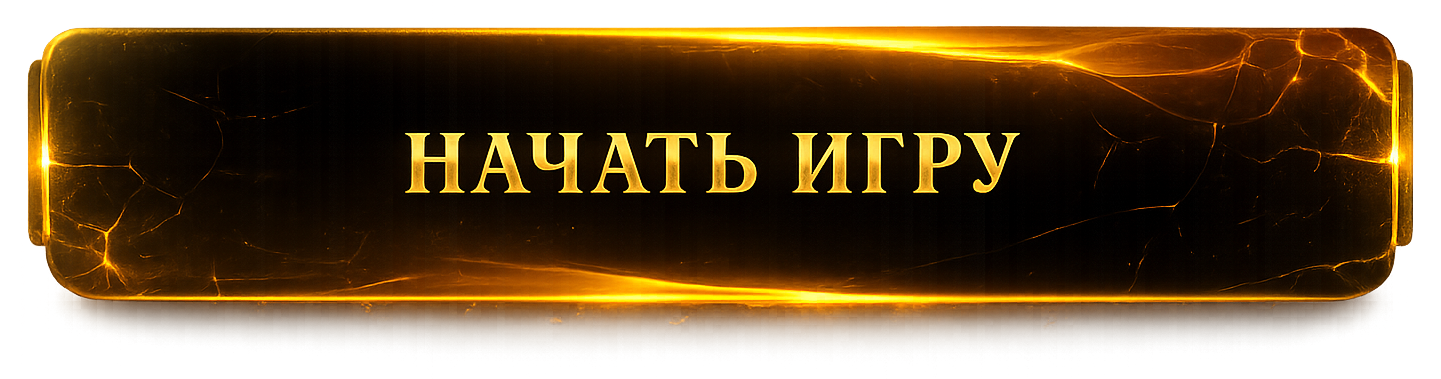
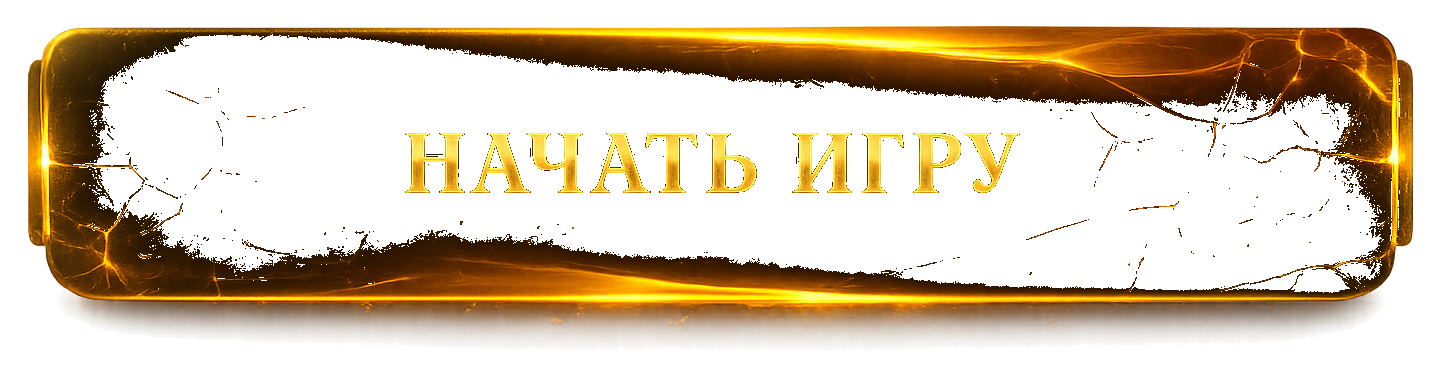
ZChess update 06.06.2026 11:05:22,90

diff --git a/js/config.js b/js/config.js
@@ -26,7 +26,7 @@ window.ZChess.firebaseConfig = {
 // ==========================================
 // APP CONSTANTS
 // ==========================================
-window.ZChess.BUILD = '174261108616626';
+window.ZChess.BUILD = '175302735531223';
 window.ZChess.VERSION = '1.1.5';
 window.ZChess.APP_NAME = 'ZChess';
 window.ZChess.SITE_URL = 'https://zoobik101-hue.github.io/Zchess/';

diff --git a/sw.js b/sw.js
@@ -4,7 +4,7 @@
    Auto-reload when new version detected
    ============================================= */
 
-const CACHE_VERSION = 'zchess-174261108616626';
+const CACHE_VERSION = 'zchess-175302735531223';
 const STATIC_CACHE = `zchess-static-${CACHE_VERSION}`;
 const DYNAMIC_CACHE = `zchess-dynamic-${CACHE_VERSION}`;
 
